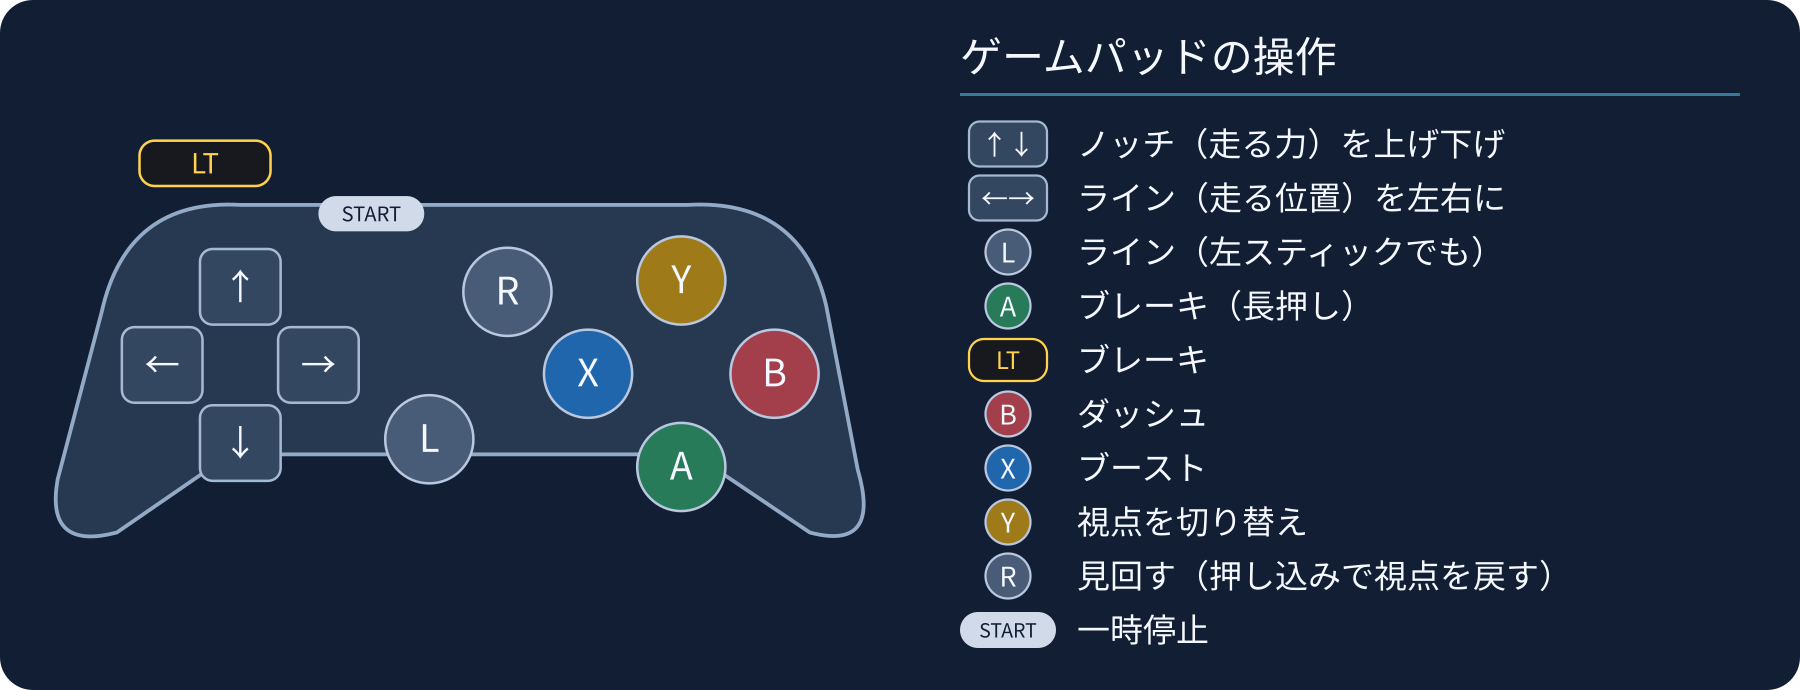
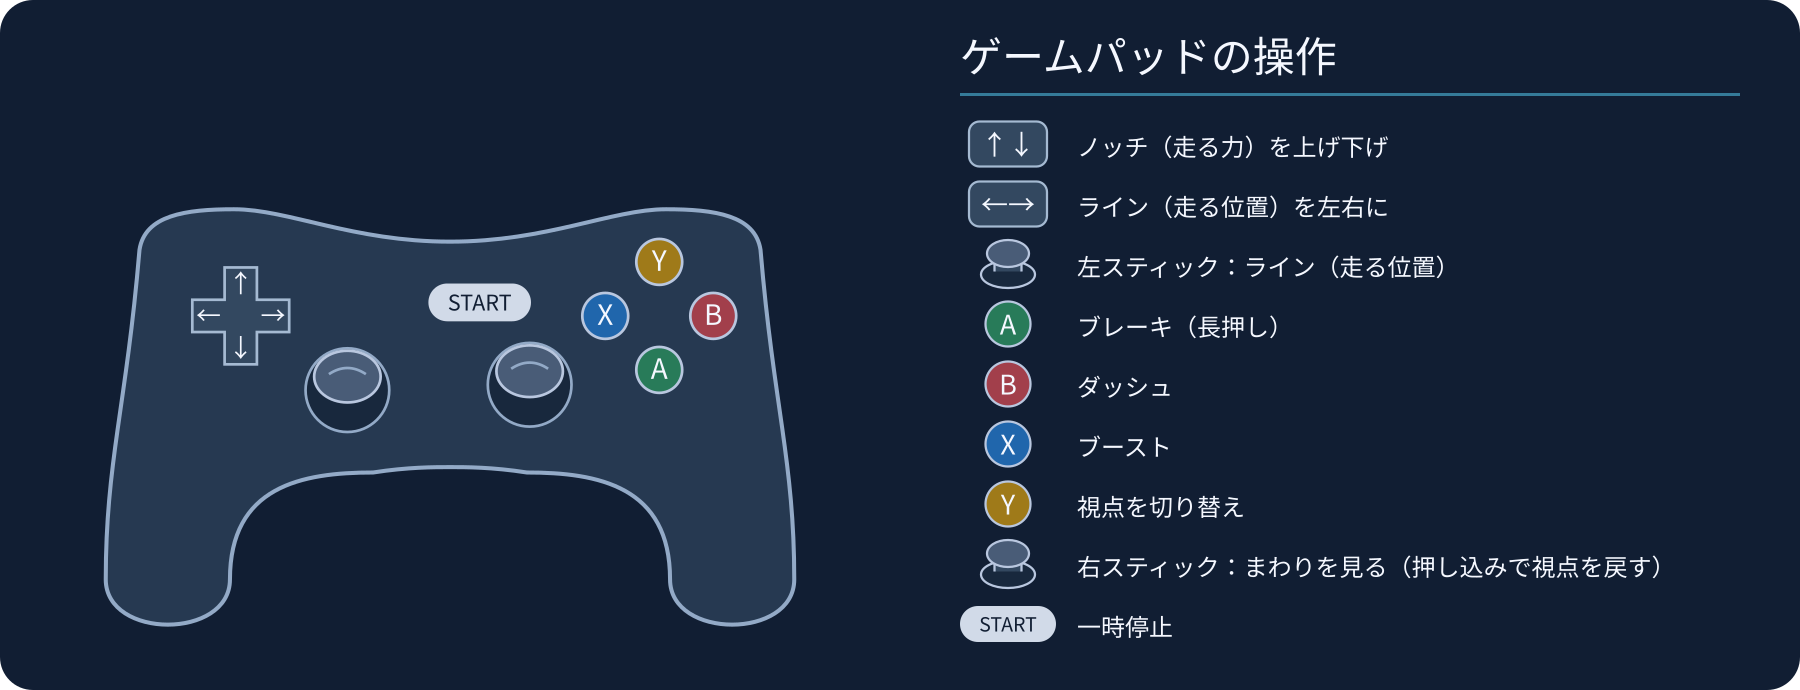
feat: control guide fixes, droplet wings part, Mio and trainer docs, AI meeting rules

Changed region(s): [[0.0311, 0.1826, 0.4978, 0.913], [0.5289, 0.1826, 0.9022, 0.9435]]

diff --git a/AI会議のやり方.md b/AI会議のやり方.md
@@ -1,0 +1,82 @@
+# AI会議のやり方（役を分けて意見をぶつける）
+
+2026/11/09 作成。Claude と Codex を、それぞれ何人かの「役」に分け、案を出し合い、批評し合って練るやり方。`Claude_Codex連携.md` の「計画の議論（Claude 1人 と Codex 1人の往復）」では足りないときに使う。
+
+## 1. いつ使うか
+
+- 使うのは、ユーザーが頼んだときだけ。Claude から勝手に始めない。
+- 向いているもの：キャラデザ、世界観、画面の見た目、遊び方の案など、正解が一つでなく、いろいろな見方が要るもの。
+- 向かないもの：不具合の原因探し、数字の計算、コードの実装。これらは `Claude_Codex連携.md` のやり方で行う。
+- どのセッションでも使える。
+
+## 2. 始め方
+
+- ユーザーが「AI会議で（題）」と言う。
+  - 例：「AI会議で、トレーナーのユウの人物を練って」
+- これが、Claude Code の「ワークフロー」（何人ものAIを台本どおりに並べて動かす機能）を使ってよい、という許可になる。
+- Claude は始める前に、次の4つを短く伝える。聞き返しは要らない。
+  - 題
+  - 役の顔ぶれ
+  - 使うモデル
+  - 下絵まで作るか
+
+## 3. 顔ぶれ（案を出す4人＋練り役2人＋まとめ役）
+
+| 役の側 | 人数 | モデル | 動かし方 |
+|---|---|---|---|
+| Claude 側 | 2人 | Sonnet（安いモデル） | ワークフローの中で並べて動かす |
+| Codex 側 | 2人 | Terra・medium | `codex-companion.mjs task --model gpt-6.1-terra --effort medium`（読むだけ）を、2つ同時に頼む |
+| 練り役 | 2人（Claude 側1人・Codex 側1人） | Sonnet と Terra・medium | 案を合わせて練り、仕上げる（下の段4〜6） |
+| まとめ役 | 1人 | このセッションの Claude | 準備と最後の確かめだけ |
+
+- 役は、題ごとに、見方がはっきり違う4つを選ぶ。似た役は作らない。
+- 例（キャラデザ）：
+  - 絵本作家（子どもに伝わるか）
+  - ゲームの絵の担当（3Dのぷるりん・画面と合うか）
+  - 辛口の編集者（ありきたり・AIっぽさを突く）
+  - 遊ぶ人（覚えやすいか、好きになれるか）
+- Codex の作業では、`Claude_Codex連携.md` の決まりを守る。
+  - モデル名・深さ・理由を先に伝える。
+  - 記録を「Codex の作業」タブで流す。2つ同時のときは、2つのタブを開く。
+
+## 4. 流れ
+
+| 段 | だれが | やること | 長さの上限 |
+|---|---|---|---|
+| 1. 準備 | まとめ役 | 要点メモを1枚作る：題、世界観と決まり、ユーザーが嫌った点、良しとした点 | 1ページ |
+| 2. 案を出す | 4人 | メモだけを読み、ほかの人の案を見ないで、別々に案を出す | 箇条書き5行 |
+| 3. 批評し合う | 4人 | ほかの3人の案を読み、弱い所を挙げる。良い所（残したい所）も挙げる | 1案につき、弱い所3点・良い所2点まで |
+| 4. 合わせて練る | 練り役2人（Claude 側1人・Codex 側1人） | 4案と批評を全部読み、1つを選ぶのではなく、各案の良い所を合わせ、弱い所を直した「合わせた案」を、それぞれ別々に作る。どの案のどこを使ったかも書く | 1人1案、箇条書き8行＋使った所3行 |
+| 5. 合わせた案を批評 | 4人 | 2つの合わせた案を読み、弱い所と、落ちてしまった良い所を挙げる | 1案につき3点まで |
+| 6. 仕上げ | 練り役2人 | 段5の批評を受けて、2人で1つに仕上げる。まず Claude 側が直し、次に Codex 側が見直して直す。直しきれなかった所と、意見が割れた所は、そのまま書き残す | 1案（箇条書き8行）＋割れた所 |
+| 7. 確かめ | まとめ役 | 仕上がった案が、ゲームの決まり・メモリ・ユーザーの過去の指示と食い違っていないかだけを見る。中身は書き換えない。食い違いがあれば、その所を書き添える | — |
+| 8. 下絵 | 下絵の係1人 | 仕上がった案を下絵にする（頼まれたときだけ）。割れた所があれば、そこだけ2通り描く | 1〜2枚 |
+| 9. 選ぶ | ユーザー | 決める、または直す所を言う | — |
+
+- 練り役は、段2の4人とは別に立てる（自分の案をひいきしないように）。モデルは Claude 側 Sonnet、Codex 側 Terra・medium。
+- くり返すのは、ユーザーが「もう1回」と言ったときだけ。2回目は、ユーザーの意見をメモに足し、段4（合わせて練る）から始める。
+
+## 5. 使用量を抑える決まり
+
+- 役には、ファイルを探させない。読むのは要点メモだけ。
+- 答えの形と長さを、上の表のとおり固定する。前置きや言い訳を書かせない。
+- 高いモデル（このセッションの Claude）の出番は、段1と段7だけ。
+- 段3・段5の批評は、前の段の文を全部渡さず、案の本文だけを渡す。
+- 下絵は全員に描かせない。仕上がった1案（割れた所だけ2通り）にする。
+- 段8の下絵がいちばん重い。言葉の案で決まりそうなら省く。
+
+## 6. まとめ役が守ること
+
+- 1案を選ぶのではなく、練り役が合わせて仕上げた案を見せる。多数決で決めない。
+- まとめ役は、仕上がった案の中身を書き換えない。食い違いを書き添えるだけ。
+- ユーザーには、次の3つを見せる。
+  - 仕上がった案（8行）と、どの役の案のどこから来たか
+  - 意見が割れた所（あれば2通り）
+  - ゲームの決まり・過去の指示との食い違い（あれば）
+- 長い議事録は見せない。要るときは、作業用の場所にファイルで置く。
+- 何かを作る・変えるのは、ユーザーが案を選んでから。資料やゲームのファイルは、確認を取ってから変える。
+
+## 7. 限界
+
+- 役を分けても、中身は同じAI。同じ思い込みは残る。最後に決めるのはユーザー。
+- 絵は、言葉の議論だけでは良くなりにくい。必要なら段5まで行う。

diff --git a/docs/CPUトレーナー人物設定.md b/docs/CPUトレーナー人物設定.md
@@ -1,6 +1,6 @@
 # CPUトレーナー人物設定
 
-2026/10/11採用。[基本世界観](世界観設定.md)に合わせた15人の人物。2026-11-08に、見た目と走らせ方を新しい案に書き換えた。
+2026/10/11採用。[基本世界観](世界観設定.md)に合わせた15人の人物。2026-11-08に、見た目と走らせ方を新しい案に書き換えた。2026-11-10、ユウ・ヒナタ・イブキの3人は、絵を描いて見た目を決めた（絵はまだリポジトリに入れていない）。
 
 走るのはぷるりんで、トレーナーは指示を送る。紹介文の「得意な脚質」は人物設定・画面表示であり、その戦術がCPUに実装済みという意味ではない。（2026-10-25に、判断設定 `profile_id` と前のCPU判断処理は消した。CPUの席は育てたCPUが走らせ、性格は `cpu_trainers.json` の `frame` で伝える。）職業や正体による能力補正はない。
 
@@ -10,10 +10,12 @@
 
 ## 共通の描き方
 
-- 膝から上。手と立ち方が見えるようにする。胸から上だけにしない。
-- 場面はレース場の柵のそば。仕事は服と体つきに残し、手は指示の出し方に使う。
-- そろえるのは描き方だけ。線に太い所と細い所。影は1段。色は一人3色まで。背景は無地。頭の大きさや胴の太さは、年齢と体格でちがってよい。
+- 1人で立つ。頭から膝の少し下まで。手と立ち方が見えるようにする。
+- 背景は、その人のいる場所をうすく描いた景色で、画面全体に広げる。人物は無地の背景で描き、切り抜いて背景に重ねる。
+- そろえるのは描き方だけ。線に太い所と細い所。影は1段。色は一人3色まで。頭の大きさや胴の太さは、年齢と体格でちがってよい。
 - 見分けの決め手は顔（輪郭・目・鼻・口の並び）と立ち方（重心）。小物は一人一組まで（帳面と鉛筆で一組）。
+- 髪は、頭の外側の形・前髪・耳・襟足まで、人ごとに違う形にする。
+- 体の比率は年齢どおり。表情は明るく、眉はまっすぐか、ゆるい弧。
 
 ### 顔の向き
 
@@ -31,9 +33,10 @@
 - 人物：15歳・男・レース場の見習い
 - 得意な脚質：先行
 - 色：`#b08a3e`
-- 体の形：小柄。大きすぎる上着の袖を折っている
-- 顔：短い丸顔。離れた小さい目。すきっ歯
-- 姿・向き：正面。柵に身を乗り出して、大きく手を振る
+- 髪：黒。浅い分け目から横に流す、ひと続きの前髪。両耳を出し、襟足は短い
+- 体の形：小柄で細身の15歳。少し大きめの黄土色の上着の袖を折る
+- 顔：短い丸顔。離れた小さめの目。まっすぐな眉
+- 姿・向き：正面。手のひらを見せて控えめに手を振る。人なつっこい笑顔
 - 走らせ方：先頭のすぐ後ろにつけさせ、練習で覚えた合図を一つずつ丁寧に送る。
 
 ## ホムラ（homura）
@@ -111,9 +114,10 @@
 - 人物：12歳・女・宿屋の手伝い
 - 得意な脚質：先行
 - 色：`#ef8fae`
-- 体の形：いちばん小さく、頭が大きめ。お団子2つ。大きすぎる前掛け
-- 顔：小さな丸顔。大きな目。広いおでこ
-- 姿・向き：見上げ。大人の間で背伸びし、両手を口に当てて叫ぶ
+- 髪：赤銅色。おでこを全部出す。耳の上に、左右で少し大きさの違うお団子が2つ
+- 体の形：3人でいちばん小さい12歳。桃色の服に、大きすぎる前掛け
+- 顔：丸顔。大きめの横長の目。まっすぐな眉。広いおでこ
+- 姿・向き：少し見上げる。片手を口のそばに当てて、笑顔で呼びかける
 - 走らせ方：前を行く強い相手を目標にさせ、抜くたびに大喜びして次の目標を指さす。
 
 ## カエデ（kaede）
@@ -140,10 +144,11 @@
 
 - 人物：18歳・男・山麓の牧場
 - 得意な脚質：追込
-- 色：`#7cc4dc`
-- 体の形：猫背。もしゃもしゃ髪。だぶだぶの毛糸の服
-- 顔：下がり眉。厚い唇。鼻のそばかす
-- 姿・向き：うつむき。子どものぷるりんを抱いたまま、心配そうに見る
+- 色：`#8fd0d8`（少し緑がかった明るい水色）
+- 髪：灰がかった薄茶のくせ毛。てっぺんは押さえられ、耳の上から後ろへ広がる。前髪は眉にかかる
+- 体の形：3人でいちばん背が高い18歳。普通の体つきで、少し猫背。だぶっとした水色のセーター
+- 顔：面長。まっすぐな眉。細めの目。鼻のそばかす。厚めの唇
+- 姿・向き：うつむいて、子どものぷるりんを両腕で抱き、やさしく笑って見る
 - 走らせ方：後方を走るぷるりんの様子を見守り、終盤に走りたがるそぶりを見せたら送り出す。
 
 ## ツバキ（tsubaki）

diff --git a/docs/ぷるりんレーサーズ_設計案.md b/docs/ぷるりんレーサーズ_設計案.md
@@ -1951,5 +1951,9 @@ SSD 容量は 1 レース数 MB 規模なら、14 日ローテーションでも
 - 2026/11/08: 作成個体のオンライン出走（通信v10）を追加。能力・見た目・PNG/GLBの自作部品を検査して配り、未着でも開始して届いたら再組み立てする。相手の自作部品の非表示設定と受信キャッシュ、作成個体のチケット継続と能力変更時のuid更新、部屋・レースごとの登録寿命を追加。上限は online.json.custom_limits、初期の非表示設定は hide_remote_parts に置いた。組み込み params は元の10体の同じ部品・同じ値の組み合わせのみ許可する。
 - 2026/11/08: ぷるりんの前のマーク（おでこ・目の横）をやめて、背中のマークだけにした。顔のそばのマークが、入れ墨のように見えて怖かったため。元の10体の前のマークを外し、作成コーナーのマークの場所も背中だけにした（`pururin_looks.json`、`pururin_maker.json` の `mark_spots`）。
 - 2026/11/08: レース中の足元の目印から、輪のうしろに浮かぶ文字（ノッチ・速さ・心拍数）を廃止した。輪と矢じりは残す。
-- 2026/11/08: 作成コーナーを直した。体の色を16色（属性の4色＋共通の12色。`pururin_stats.json` の `common_primary_colors`）にし、下の色（16色）と塗る高さ（なし・少し・半分・多め）を選べるようにした（`pururin_maker.json` の `secondary_colors`・`secondary_heights`）。部品を15個足した（頭の上＝花・くま耳・一本角・シルクハット・星のアンテナ、左右＝ちょうちょの羽・鳥の羽・ドラゴンの羽・星の手・小さなリボン、尾＝ねこ・あくま・星・ハート・ドラゴンのしっぽ）。左右の泡（`bubble_side`）が、つながった腕のように見えたので、離れて斜め上へ浮かぶ玉に作り直した（尾の泡はそのまま）。下の操作案内を「L1 R1 項目切替え」にした。
+- 2026/11/08: 作成コーナーを直した。体の色を16色（属性の4色＋共通の12色。`pururin_stats.json` の `common_primary_colors`）にし、下の色（16色）と塗る高さ（なし・少し・半分・多め）を選べるようにした（`pururin_maker.json` の `secondary_colors`・`secondary_heights`）。部品を15個足した（頭の上＝花・くま耳・一本角・シルクハット・星のアンテナ、左右＝ちょうちょの羽・鳥の羽・ドラゴンの羽・星の手・小さなリボン、尾＝ねこ・あくま・星・ハート・ドラゴンのしっぽ）。下の操作案内を「L1 R1 項目切替え」にした。
+- 2026/11/09: レース中、A・D・W を押している間、右スティックと同じように見回せるようにした。Shift 中は開発用の視点調整を使う。
+- 2026/11/09: レース操作ガイドのゲームパッドを左右のスティックが下に並ぶ形に描き直し、操作盤・ダッシュ・ブーストの説明を整理した。ノッチの範囲・効果の秒数・使用回数は local_race.json から表示し、オンライン対戦の欄を消した。
+- 2026/11/09: レース中のブレーキからゲームパッドの LT を外し、A ボタンで操作するようにした。
 - 2026/11/10: ゲームのCPUを「安定版」（本番6の 2026-10-30 00:59）から、本番（抑え気味）の 2026-11-10 03:23 の版「抑え気味」に入れ替えた。安定版から育て、心拍が200を超えている間、序盤25%は重く・次の25%は軽く点を引き（残り50%は引かない）、序盤に全力すぎる走りを抑えた。少し弱くなってもよいので、人が快適に戦えることを優先した。控えは安定版・末脚・白熱・温存（早仕掛けは外した）。
+- 2026/11/10: 左右の泡（`bubble_side`）を消して、代わりに「しずくの羽」（`drop_wing`。しずくの形を3枚、扇のように広げる）を足した。泡の形が、気持ち悪く見えたため。泡を付けていた cpu-6 と cpu-9 は、しずくの羽に付け替えた（cpu-9 は緑）。頭と尾の泡は、そのまま。

diff --git a/docs/世界観設定.md b/docs/世界観設定.md
@@ -10,9 +10,19 @@
 - 遠くには、高くそびえ立つ山々がある。
 - トレーナーたち、王様、后、騎士が暮らしている。
 
+## ミオ
+
+2026/11/10採用。
+
+- 13歳の女の子。現実の世界から、夢の中でこの世界に迷い込む。
+- 好奇心が強く、少し負けず嫌い。本が好きで、空想がち。小説を書こうと、いろいろ模索している。
+- 見た目：赤みのある深い栗色の、あご下までのボブ。左の毛先が大きく外にはねる。前髪は右へ斜めに流す。細い茶色の丸いメガネ。
+- 服：制服（白い丸襟シャツ、紺のベスト、えんじ色のリボン、紺のスカート）。胸ポケットに角の折れたノート。
+- 絵の姿：文庫本を胸の前で片手で抱え、少し上の遠くを見て、物語を思い浮かべるようにほほえむ。背景は、朝の城下町の開けた広場。
+
 ## 今は決めないこと
 
-細かなストーリー、ミオの詳しい人物設定、夢の仕組みや現実世界との往来、時間の進み方、記憶に関する仕組み、人物同士の関係や具体的な事件は未決とする。
+細かなストーリー、ミオの家族や現実での暮らし、夢の仕組みや現実世界との往来、時間の進み方、記憶に関する仕組み、人物同士の関係や具体的な事件は未決とする。
 
 旧資料の小説執筆などの設定は、今回の基本設定から自動的に引き継がない。また、採用した世界観の保存は、各場所・人物・導入シーンがゲーム内に実装済みであることを意味しない。
 
